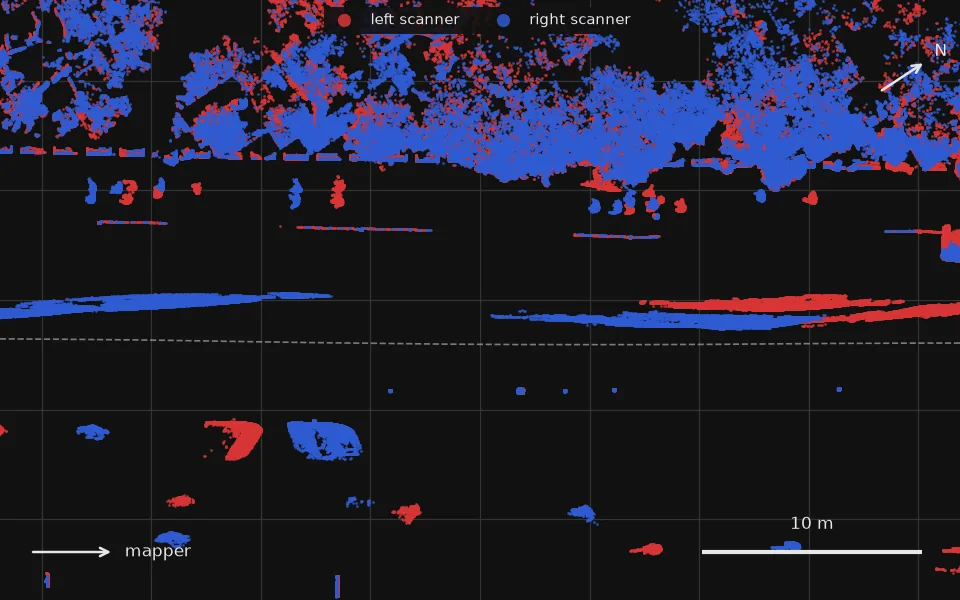
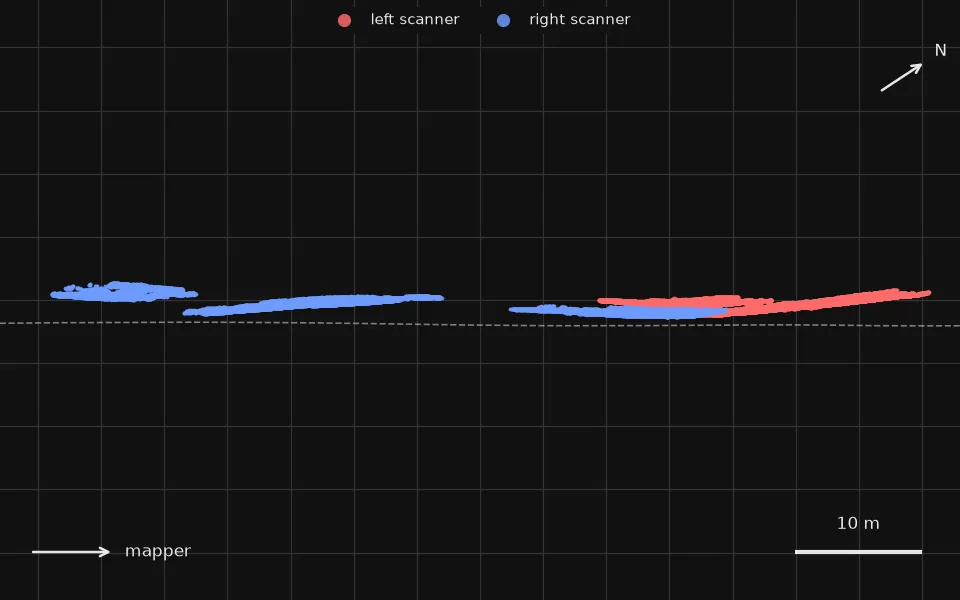
Field image F38: show only the over-elongated car

diff --git a/static/js/field-data.js b/static/js/field-data.js
@@ -29,15 +29,15 @@
             image: 'static/images/field/F38.webp',
             imageDark: 'static/images/field/F38-dark.webp',
             width: 960, height: 600,
-            alt: 'Top view of real mobile laser scanning data. A car in the lane just left of the mapper’s path is smeared into a long thin streak by both the left scanner (red) and the right scanner (blue), far longer than the car itself. Scale bar 10 m.',
-            caption: 'Over-elongation in the field. A car in the lane just left of the mapper drove at almost the mapper’s speed, so the scan lines kept sampling the same part of it and both scanners recorded a long streak instead of a car. Estimated speeds: mapper 30 km/h, car 31 ± 2 km/h, same direction (θ ≈ 0°). Red: left scanner; blue: right scanner.',
+            alt: 'Top view of real mobile laser scanning data, showing only the points of one car in the lane just left of the mapper’s path. The car is smeared into long thin streaks by the left scanner (red) and the right scanner (blue), far longer than the car itself. Trees and other objects were removed. Scale bar 10 m.',
+            caption: 'Over-elongation in the field. A car in the lane just left of the mapper drove at almost the mapper’s speed, so the scan lines kept sampling the same part of it and both scanners recorded a long streak instead of a car. Only the car’s points are shown (0.5–3.5 m left of the mapper’s path, 0.3–2 m above the road); trees, hedges and other objects were removed for clarity. Estimated speeds: mapper 30 km/h, car 31 ± 2 km/h, same direction (θ ≈ 0°). Red: left scanner; blue: right scanner.',
             vm: { kmh: 30 },
             vo: { kmh: 31, pm: 2 },
             theta: 0,
             location: 'Guwahati, Assam, India',
             date: null,
             gpsTime: 535418.9,
-            scale: 'Top view, mapper travelling left to right. Grid 5 m, scale bar 10 m. Points 0.5–3 m above the road.',
+            scale: 'Top view, mapper travelling left to right. Grid 5 m, scale bar 10 m. Only the car’s points: 0.5–3.5 m left of the mapper’s path, 0.3–2 m above the road.',
             scanners: SCANNERS,
             credit: CREDIT
         },

diff --git a/tools/render_field.py b/tools/render_field.py
@@ -17,6 +17,17 @@ or by GPS time.
 
 Height filter defaults to 0.5-3.0 m above local ground (vehicles), so the road
 surface does not swamp the object.
+
+Showing only one vehicle (--lane): points are kept only if they lie in a band
+LO..HI m to the left of the mapper's path (negative = right), between --hmin and
+--hmax above the road, and in an 8-connected streak (0.25 m cells, along-track x
+by lateral offset) at least --min-streak m long. The road level is taken along
+the track from the mapper's own lane (5th percentile of height in 2 m bins,
+|offset| < 1 m). Everything else is left out of the image. F38 was made with
+
+    tools/.venv/bin/python tools/render_field.py --ids F38 --no-title --size 76 --shift -3.75 \
+        --lane 0.5 3.5 --hmin 0.3 --hmax 2.0 --min-streak 8 --dot 3.5 --out-dir static/images/field
+    (and the same with --theme dark)
 """
 import argparse
 import io
@@ -29,7 +40,8 @@ import numpy as np
 
 HERE = os.path.dirname(os.path.abspath(__file__))
 DEFAULT_DATA = os.path.expanduser("~/Documents/GitHub/Distortions/Data/Real/MLS Traffic Data")
-COLORS = {0: "#d93636", 1: "#2f5bd3"}          # explorer --left / --right (light theme)
+COLORS = {"light": {0: "#d93636", 1: "#2f5bd3"},   # explorer --left / --right, light theme
+          "dark": {0: "#ff6b6b", 1: "#6e9bff"}}    # and dark theme
 LABELS = {0: "left scanner", 1: "right scanner"}
 
 
@@ -73,7 +85,8 @@ def crop(scanners, cx, cy, half, hmin, hmax):
     return out
 
 
-def render(scanners, traj, cx, cy, t, size, color, title, path, fmt, max_kb, hmin, hmax, stride, theme):
+def render(scanners, traj, cx, cy, t, size, color, title, path, fmt, max_kb, hmin, hmax, stride, theme,
+           lane=None, min_streak=8.0, dot=1.6):
     import matplotlib
     matplotlib.use("Agg")
     import matplotlib.pyplot as plt
@@ -109,10 +122,18 @@ def render(scanners, traj, cx, cy, t, size, color, title, path, fmt, max_kb, hmi
     cmap = plt.get_cmap("viridis")
     tmin = min((p[3].min() for p in crop_cache(scanners, cx, cy, half, hmin, hmax) if len(p[3])), default=t)
     tmax = max((p[3].max() for p in crop_cache(scanners, cx, cy, half, hmin, hmax) if len(p[3])), default=t + 1)
-    for k, x, y, tt in crop_cache(scanners, cx, cy, half, hmin, hmax):
+    if lane is None:
+        layers = crop_cache(scanners, cx, cy, half, hmin, hmax)
+    else:
+        layers, stats = segment_streaks(scanners, traj, cx, cy, half, t, lane, hmin, hmax, min_streak, fwd, left)
+        for k, st in stats.items():
+            span = f" (x {st['x_from']:+.1f}..{st['x_to']:+.1f} m)" if st["streak"] else ""
+            print(f"  scanner {k}: {st['frame']} points in the frame, {st['lane']} in the lane band, {st['height']} in the height window,"
+                  f" {st['streak']} in streaks >= {min_streak:g} m{span}")
+    for k, x, y, tt in layers:
         lx, ly = to_local(x[::stride], y[::stride])
-        c = COLORS[k] if color == "scanner" else cmap((tt[::stride] - tmin) / max(tmax - tmin, 1e-6))
-        ax.scatter(lx, ly, s=1.6, c=c, lw=0, alpha=0.85, zorder=2, label=LABELS[k] if color == "scanner" else None)
+        c = COLORS[theme][k] if color == "scanner" else cmap((tt[::stride] - tmin) / max(tmax - tmin, 1e-6))
+        ax.scatter(lx, ly, s=dot, c=c, lw=0, alpha=0.85, zorder=2, label=LABELS[k] if color == "scanner" else None)
 
     ax.set_xlim(-hx, hx); ax.set_ylim(-hy, hy); ax.set_aspect("equal"); ax.axis("off")
     # scale bar
@@ -132,7 +153,7 @@ def render(scanners, traj, cx, cy, t, size, color, title, path, fmt, max_kb, hmi
     if title:
         ax.text(-hx + 0.02 * size, hy - 0.03 * size, title, color=fg, va="top", fontsize=8)
     if color == "scanner":
-        ax.legend(loc="upper center", fontsize=7, frameon=True, facecolor=bg, edgecolor="none", framealpha=0.9, labelcolor=fg, markerscale=5, ncol=2)
+        ax.legend(loc="upper center", fontsize=7, frameon=True, facecolor=bg, edgecolor="none", framealpha=0.9, labelcolor=fg, markerscale=5 * math.sqrt(1.6 / dot), ncol=2)
 
     buf = io.BytesIO(); fig.savefig(buf, format="png", facecolor=bg); plt.close(fig)
     im = Image.open(io.BytesIO(buf.getvalue())).convert("RGB")
@@ -145,6 +166,45 @@ def render(scanners, traj, cx, cy, t, size, color, title, path, fmt, max_kb, hmi
         if os.path.getsize(path) <= max_kb * 1024:
             break
     return os.path.getsize(path)
+
+
+def segment_streaks(scanners, traj, cx, cy, half, t, lane, hmin, hmax, min_len, fwd, left):
+    """Points of one vehicle: lane band, height window above the road, long connected streaks.
+
+    Returns [(scanner, x, y, t)] and per-scanner counts for each stage."""
+    from scipy import ndimage
+    sel = np.abs(traj["T"] - t) < 30
+    px = (traj["X"][sel] - cx) * fwd[0] + (traj["Y"][sel] - cy) * fwd[1]
+    py = (traj["X"][sel] - cx) * left[0] + (traj["Y"][sel] - cy) * left[1]
+    o = np.argsort(px); px, py = px[o], py[o]
+    hy = half / 1.6
+    out, stats = [], {}
+    for k, s in enumerate(scanners):
+        m = (np.abs(s["x"] - cx) < half * 1.5) & (np.abs(s["y"] - cy) < half * 1.5)
+        x, y, z, tt = s["x"][m], s["y"][m], s["z"][m], s["t"][m]
+        lx = (x - cx) * fwd[0] + (y - cy) * fwd[1]; ly = (x - cx) * left[0] + (y - cy) * left[1]
+        inf = (np.abs(lx) < half) & (np.abs(ly) < hy)
+        off = ly - np.interp(lx, px, py)                          # lateral offset from the mapper's path, + = left
+        own = inf & (np.abs(off) < 1.0)                           # the mapper's own lane: road surface
+        bins = np.arange(-half, half + 2, 2.0); idx = np.digitize(lx, bins)
+        road = np.array([np.percentile(z[own & (idx == i)], 5) if (own & (idx == i)).sum() > 20 else np.nan
+                         for i in range(len(bins) + 1)])
+        ok = ~np.isnan(road); bc = np.r_[bins[0] - 1, (bins[:-1] + bins[1:]) / 2, bins[-1] + 1]
+        hz = z - np.interp(lx, bc[ok], road[ok])
+        a = inf & (off > lane[0]) & (off < lane[1])
+        b = a & (hz > hmin) & (hz < hmax)
+        keep = np.zeros(len(x), bool)
+        if b.any():
+            gx = np.floor((lx[b] + half) / 0.25).astype(int); gy = np.floor((off[b] - lane[0]) / 0.25).astype(int)
+            grid = np.zeros((gx.max() + 2, gy.max() + 2), bool); grid[gx, gy] = True
+            lab, n = ndimage.label(grid, structure=np.ones((3, 3)))
+            pl = lab[gx, gy]
+            good = [c for c in range(1, n + 1) if np.ptp(lx[b][pl == c]) >= min_len]
+            keep[np.nonzero(b)[0][np.isin(pl, good)]] = True
+        stats[k] = dict(frame=int(inf.sum()), lane=int(a.sum()), height=int(b.sum()), streak=int(keep.sum()),
+                        x_from=float(lx[keep].min()) if keep.any() else None, x_to=float(lx[keep].max()) if keep.any() else None)
+        out.append((k, x[keep], y[keep], tt[keep]))
+    return out, stats
 
 
 _cache = {}
@@ -174,6 +234,11 @@ def main():
     ap.add_argument("--theme", choices=["light", "dark"], default="light")
     ap.add_argument("--out-dir", default=os.path.join(HERE, "out", "preview"))
     ap.add_argument("--no-title", action="store_true", help="omit the text label inside the image")
+    ap.add_argument("--shift", type=float, default=0.0, help="move the crop centre this many metres along the mapper's heading")
+    ap.add_argument("--lane", nargs=2, type=float, metavar=("LO", "HI"),
+                    help="show only one vehicle: points LO..HI m left of the mapper's path (see the module docstring)")
+    ap.add_argument("--min-streak", type=float, default=8.0, help="with --lane: minimum length (m) of a connected streak")
+    ap.add_argument("--dot", type=float, default=1.6, help="point size (matplotlib s)")
     a = ap.parse_args()
 
     jobs = []
@@ -193,11 +258,15 @@ def main():
 
     scanners, traj = load_scanners(a.data), load_traj(a.data)
     for cx, cy, t, size, name, title in jobs:
+        if a.shift:
+            _, _, crs = mapper_at(traj, t)
+            cx, cy = cx + a.shift * math.sin(crs), cy + a.shift * math.cos(crs)
         if a.no_title:
             title = ""
         suffix = "-dark" if a.theme == "dark" else ""
         path = os.path.join(a.out_dir, f"{name}{suffix}.{a.format}")
-        n = render(scanners, traj, cx, cy, t, size, a.color, title, path, a.format, a.max_kb, a.hmin, a.hmax, a.stride, a.theme)
+        n = render(scanners, traj, cx, cy, t, size, a.color, title, path, a.format, a.max_kb, a.hmin, a.hmax, a.stride, a.theme,
+                   lane=a.lane, min_streak=a.min_streak, dot=a.dot)
         print(f"{path}  {n / 1024:.0f} KB")
 
 

diff --git a/CHANGELOG.md b/CHANGELOG.md
@@ -8,6 +8,7 @@
 - 3D: scan-plane vertical tilt follows the mounting figure (upper half leans towards the direction of motion).
 - Scanners are drawn at the mapper's rear-left and rear-right corners (2D and 3D), the non-selected one as a smaller solid marker in its own colour; the simulation is unchanged.
 - Explorer intro, φv hint, limitations note and descriptions, and the Learn closing sentence, now describe the 3D view and the field examples.
+- Field example F38 shows only the over-elongated car (points 0.5–3.5 m left of the mapper's path, 0.3–2 m above the road, in connected streaks), in a frame wide enough for both full streaks; `tools/render_field.py` gains the matching options.
 
 ## v1.1.0
 
